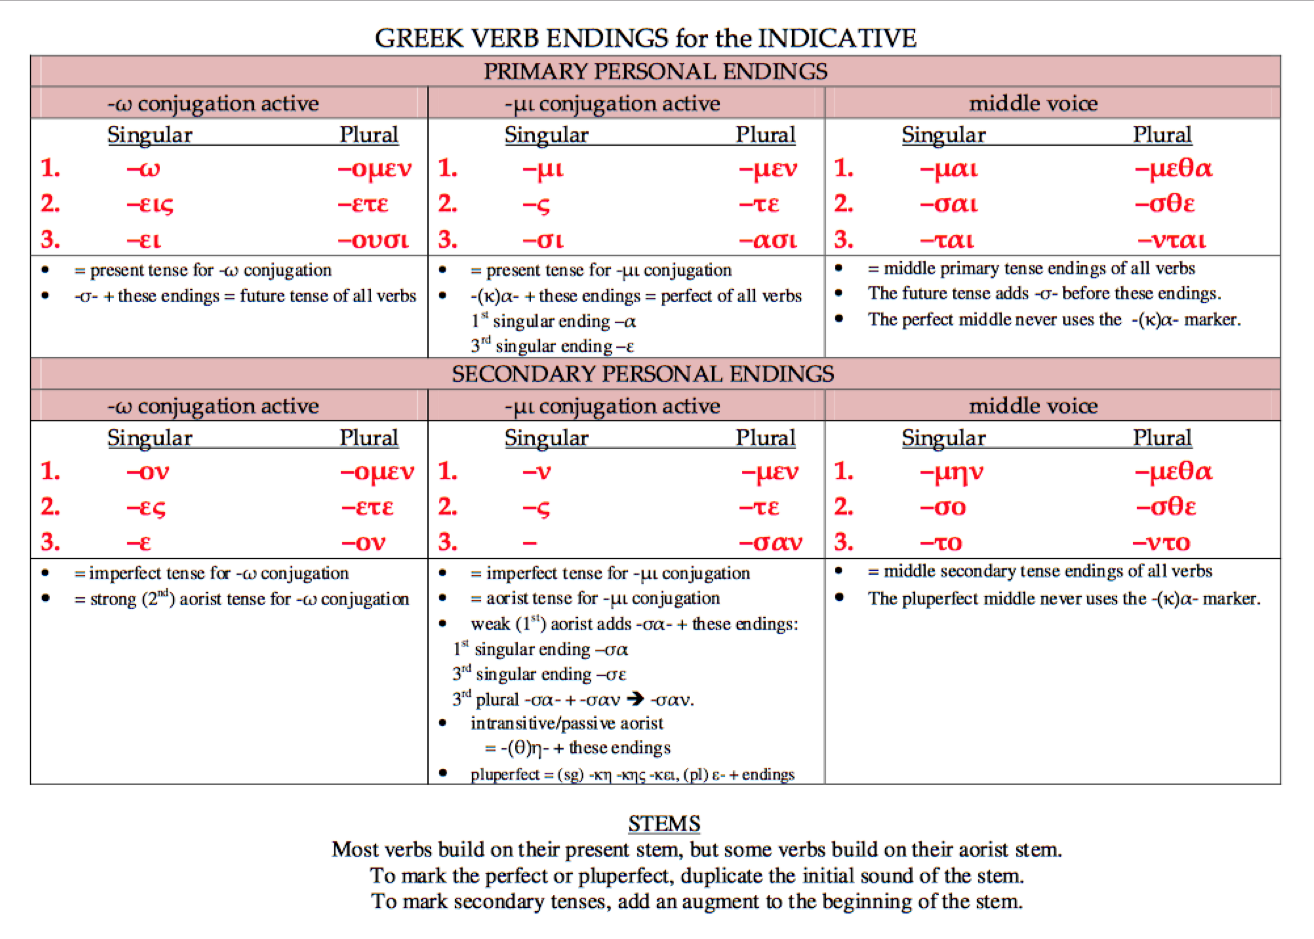
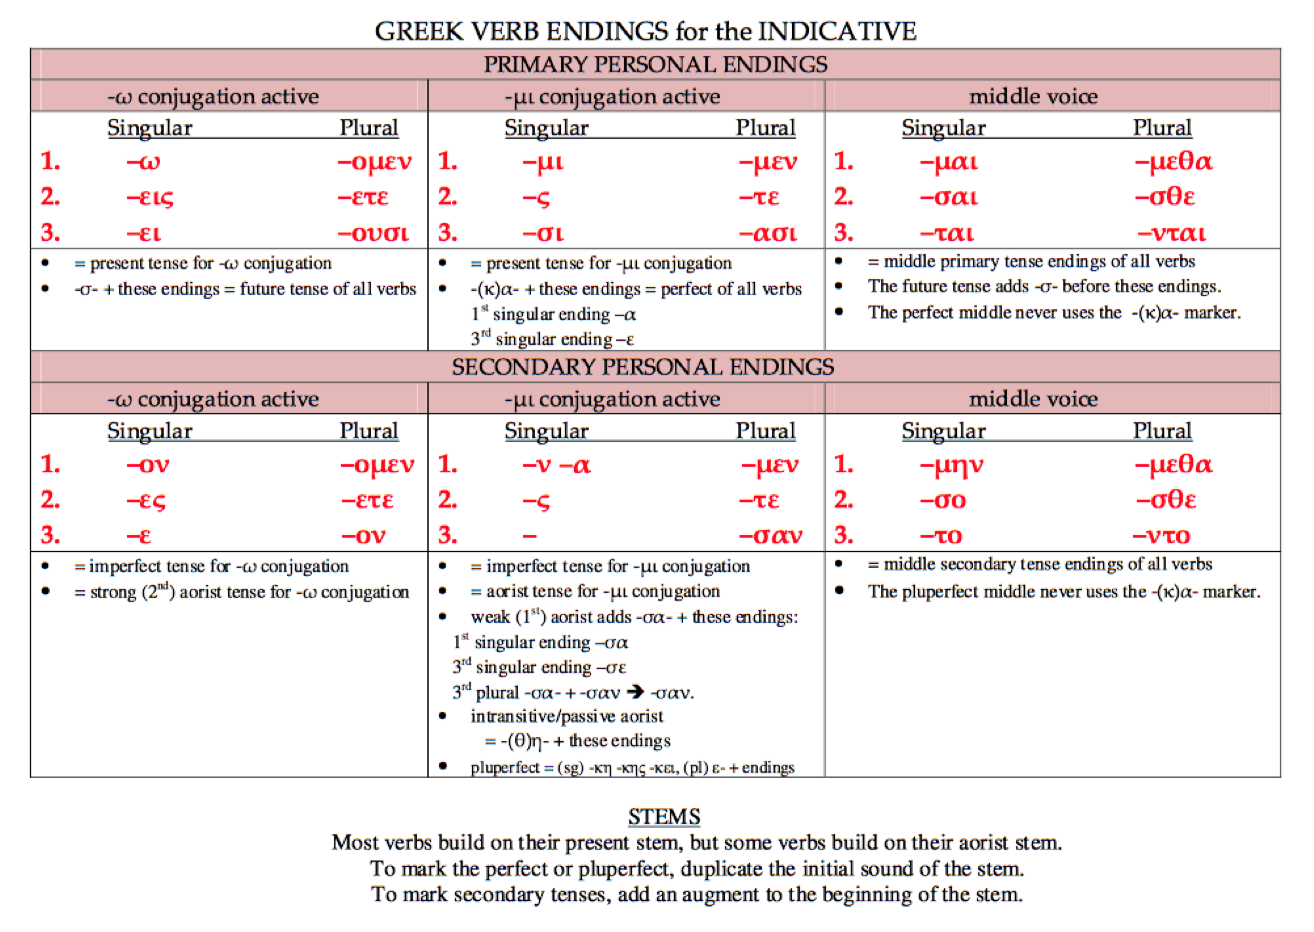
* Added more examples to verbs recaps * image with verb endings: different resolution, local version (WIP)

Changed region(s): [[0.0312, 0.0, 0.9673, 0.8401], [0.2496, 0.8712, 0.8113, 0.9646]]

diff --git a/Text/VerbsRecap.html b/Text/VerbsRecap.html
@@ -47,7 +47,7 @@
     (cf. <em>Ancient Greek for Everyone</em>, <a href="https://ancientgreek.pressbooks.com/chapter/28/">ch. 28</a>):
     </p/><br/>
     <div class="wp-nocaption aligncenter size-full wp-image-1249">
-    <img class="aligncenter size-full wp-image-1249" src="https://ancientgreek.pressbooks.com/wp-content/uploads/sites/48881/2017/03/Master-List-of-Verb-Endings.png" alt=""  style="max-width:100%" srcset="https://pressbooks.com/app/uploads/sites/48881/2017/03/Master-List-of-Verb-Endings.png 1314w, https://pressbooks.com/app/uploads/sites/48881/2017/03/Master-List-of-Verb-Endings-300x214.png 300w, https://pressbooks.com/app/uploads/sites/48881/2017/03/Master-List-of-Verb-Endings-768x549.png 768w, https://pressbooks.com/app/uploads/sites/48881/2017/03/Master-List-of-Verb-Endings-1024x732.png 1024w, https://pressbooks.com/app/uploads/sites/48881/2017/03/Master-List-of-Verb-Endings-65x46.png 65w, https://pressbooks.com/app/uploads/sites/48881/2017/03/Master-List-of-Verb-Endings-225x161.png 225w, https://pressbooks.com/app/uploads/sites/48881/2017/03/Master-List-of-Verb-Endings-350x250.png 350w"/>
+    <img class="aligncenter size-full wp-image-1249" src="/greek102web/Images/Master-List-of-Verb-Endings.png" alt=""  style="max-width:100%" srcset="/greek102web/Images/Master-List-of-Verb-Endings.png 1314w, /greek102web/Images/Master-List-of-Verb-Endings-300x214.png 300w, /greek102web/Images/Master-List-of-Verb-Endings-768x549.png 768w, https://pressbooks.com/app/uploads/sites/48881/2017/03/Master-List-of-Verb-Endings-1024x732.png 1024w, https://pressbooks.com/app/uploads/sites/48881/2017/03/Master-List-of-Verb-Endings-65x46.png 65w, https://pressbooks.com/app/uploads/sites/48881/2017/03/Master-List-of-Verb-Endings-225x161.png 225w, https://pressbooks.com/app/uploads/sites/48881/2017/03/Master-List-of-Verb-Endings-350x250.png 350w"/>
     </div>
     <p class="linguisticNote">
       The above primary endings also apply to all the tenses of the subjunctive, and the secondary endings apply to all the tenses of the optative.
@@ -107,16 +107,43 @@
       From the endings table, we see that <span class="case">–το</span> is the ending for the 3rd pers sg middle or passive for past tenses.
       So this again might be either an imperfect, aorist, or pluperfet.
       <br/>We see that both start with the augment <span class="case">–ἐ</span>, so for ἐτελείετο we look up in the dictionary for a present  starting with τελε–. For the verb <b>τελέω</b>, we find that in homeric Greek has the form ἐτελείετο for the 3^ pers. sg middle-passive voice. So ἐτελείετο means "it was being fulfilled".
-
+    </p>
+    <p class="linguisticNote">
+      For <b>ἔφατο</b> the search might not be so straightforward because the present stem seems not derivable from this form (by removing the augment <span class="case">–ἐ</span>, and the personal ending <span class="case">–το</span>, we would look for a verb starting with <b>φα–</b> in the present). But this is one of the most frequently used verbs (φημί, "to say", in position n. 41 in Dickinson College's <a href="http://dcc.dickinson.edu/greek-core-list">Greek Core Vocabulary</a>), with a limited paradigm and an imperfect middle 1st pers sg in ἐφάμην.
+    </p>
+    <p class="linguisticNote">
       <br/>
-      (..) WIP
+      Let's see three  more verb forms:
+    </p>
+    <ul class="dottedList">
+      <li><b>ἔγροιτο</b> (from the sentence ὡς Ὀδυσεὺς ἔγροιτο, ἴδοι τ᾽ ἐυώπιδα κούρην)</li>
+      <li><b>ἔθηκεν</b> (from the sentence ἣ μυρί᾽ Ἀχαιοῖς ἄλγε᾽ ἔθηκεν)</li>
+      <li><b>προΐαψεν</b> (from the sentence Ἄϊδι προΐαψεν)</li>
+    </ul>
+    <p class="linguisticNote">
+      <br/>
+      <b>ἔγροιτο</b> is a 3rd pers sg middle-passive, in a past tense, or optative. The <span class="case">–ι</span> suffix indicates it's an optative.<br/>
+      The present form (
+      <span data-audio-file="Forvo/ἐγείρω_(peri22b).mp3" onclick="playclip(this)"><b>ἐγείρω</b></span>
+      <span><img class="inlineiconnp" src="../Images/volume-icon.png"/></span>,
+      "to wake up"), is not straightforward to find in the dictionary with the rules seen so far here. The initial <span class="case">ἔ–</span> is not an augment, and the vowel change in the stem, from –γείρ– to –γρ– does not follow the typical apophony rules (Smith 1920, <a href="https://www.ccel.org/ccel/smyth/grammar/html/smyth_1b_uni.htm">§ 27-59</a>), according to which the additional –ι– is preserved at the zero degree in the aorist. <br/>
+      According to Chantraine (1968, <a href="https://archive.org/details/Dictionnaire-Etymologique-Grec/page/n323/mode/2up">p.310</a>), the initial <span class="case">ἔ–</span> might be either a prothetic vowel (Smith 1920, <a href="https://www.ccel.org/ccel/smyth/grammar/html/smyth_1b_uni.htm">§ 41</a>), or the remains of an aorist with reduplication (Smith 1920, <a href="https://www.ccel.org/ccel/smyth/grammar/html/smyth_2Vp_uni.htm">§§ 439-448</a>, AGE <a href="https://ancientgreek.pressbooks.com/chapter/6/">ch. 6</a> and <a href="https://ancientgreek.pressbooks.com/chapter/42/">42</a>). In any case, the present ἐγείρω has been created from the aorist ἔγρετο.
+    </p>
+    <p class="linguisticNote">
+      <br/>
+      <b>ἔθηκεν</b> is a 3rd pers sg active of a past tense. This is a very common verb, τίθημι ("to put, place; establish; put in a certain state; cause"), n. 164 in Dickinson College's <a href="http://dcc.dickinson.edu/greek-core-list">Greek Core Vocabulary</a>. The present has reduplication. The aorist 1sg active is ἔθηκα (this is one of those aorists formed with –κα instead of –σα , see AGE <a href="https://ancientgreek.pressbooks.com/chapter/32/">ch. 32</a>). So the meaning of ἔθηκεν is "it caused".
+    </p>
+    <p class="linguisticNote">
+      <br/>
+      <b>προΐαψεν</b> is again a 3rd pers sg active of a past tense. It seems to be a sigmatic aorist because the stem ends with –πσ–.
+      Looking for προΐα– in the dictionary we find <b>προϊάπτω</b> ("to throw in front"), with aorist προΐαψα. So the meaning is "it threw".
+
       <!--
-    <br/>ἔφατο, imperfect middle 3rd sg ("he said/spoke"), from φημί
+      <br/>ἀντέγραψαν, 3rd pl AORIST ind act ("they wrote")
+      <br/>γράψαντος, PART sg AOR ACT masc GEN
 
-
-    <br/>ἔγροιτο: "he might awake", verb 3rd sg aor opt mid epic
-    <br/>ἔθηκεν (aor 3sg, "caused"), from τίθημι
-    <br/>προΐαψεν, 3rd sg aor ind act ("sent into"), from προιάπτω
+      <br/>διαστήτην (aor, 3rd dual, ind act),
+      <br/>ἐρίσαντε (aor PART dual, act masc nom);
 
     .. + ε + ν-nu_movable
 
@@ -139,14 +166,10 @@
     indicative of the present stem).
 
     <br/><br/>
-    <br/>ἀντέγραψαν, 3rd pl AORIST ind act ("they wrote")
-
-    <br/>διαστήτην (aor, 3rd dual, ind act),
-    <br/>ἐρίσαντε (aor PART dual, act masc nom);
 
     <br/>other examples from Greek101 quotes: ..
 
-    <br/>γράψαντος, PART sg AOR ACT masc GEN
+
   </p>
 
 	<p class="linguisticNote">
@@ -160,7 +183,8 @@
   * imperfect vs aorist, examples of phrases that have both
   * more info on the forms ἐτελείετο and ἔφατο ;
   the suffix -ίε-, is it found in other verbs too? historical notes;
-  on ἔφατο, no explanation on the dictionary. Chantraine or other sources?
+  on ἔφατο, no explanation on the dictionary. Chantraine or other sources? Explanations for change from φη to φα.
+  * Update Greek101 with new insights from 102.
 	<hr/>
   	<h2 class="greekShortText" onclick="playclip(this)">
       Vowel change
